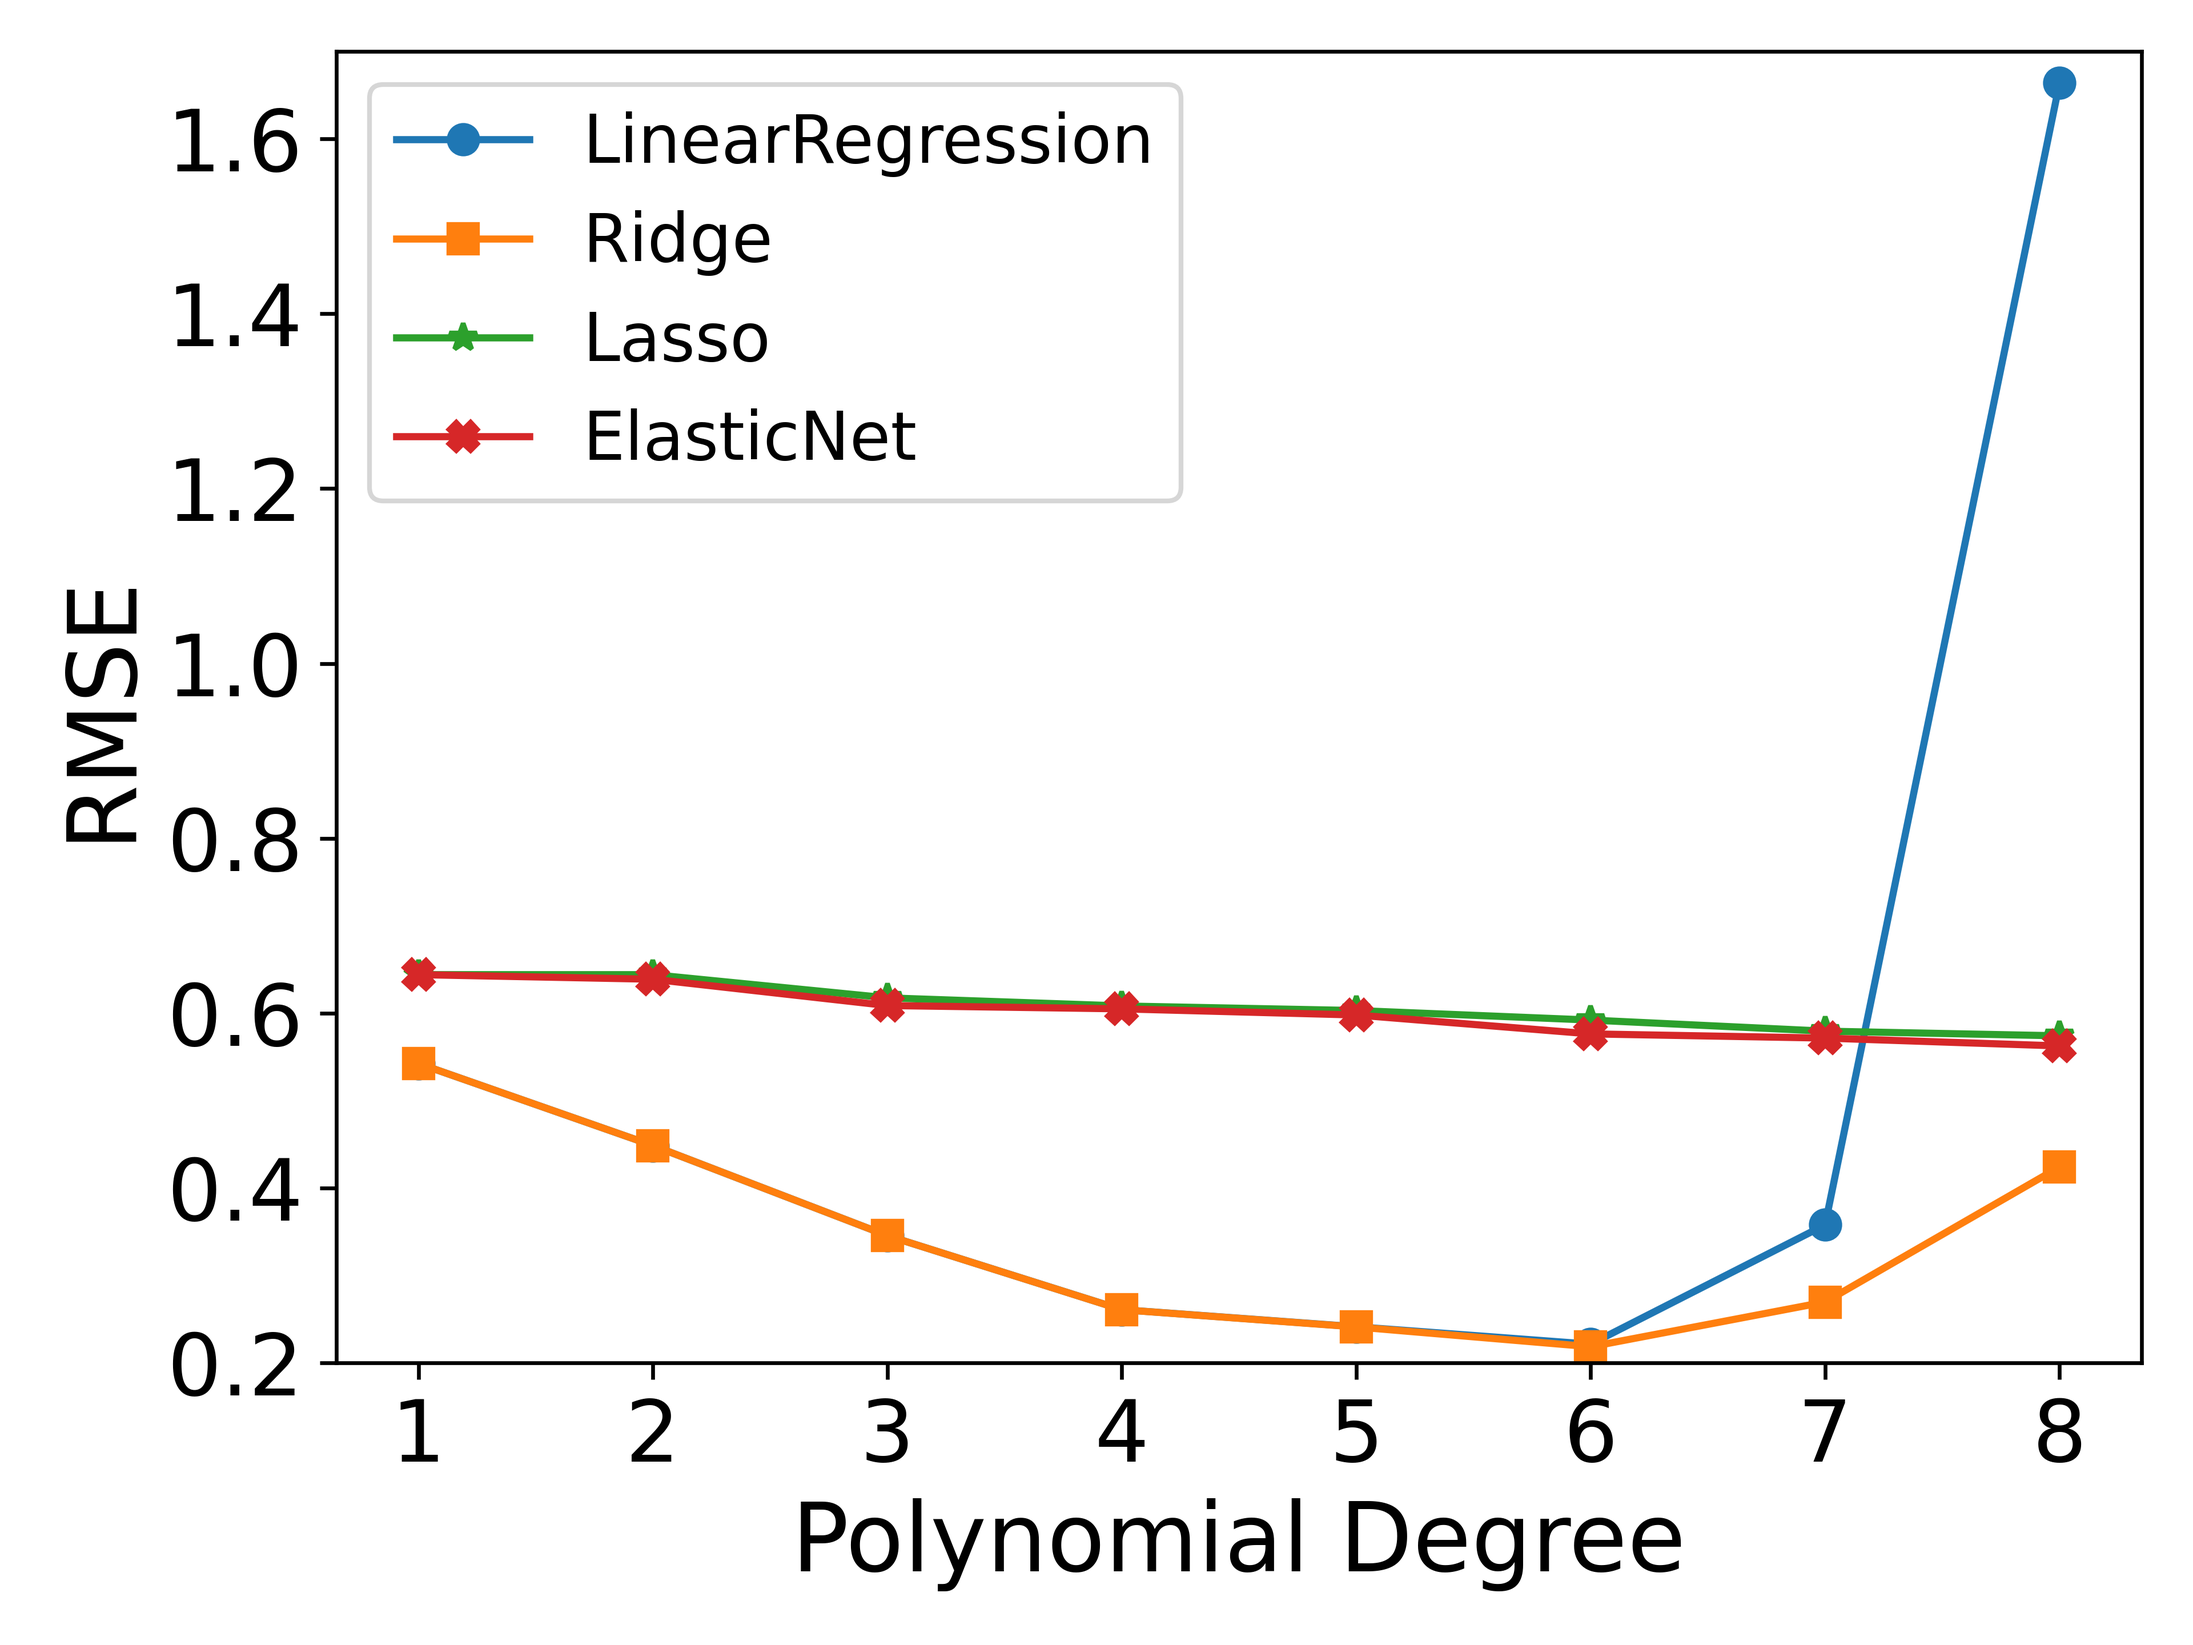
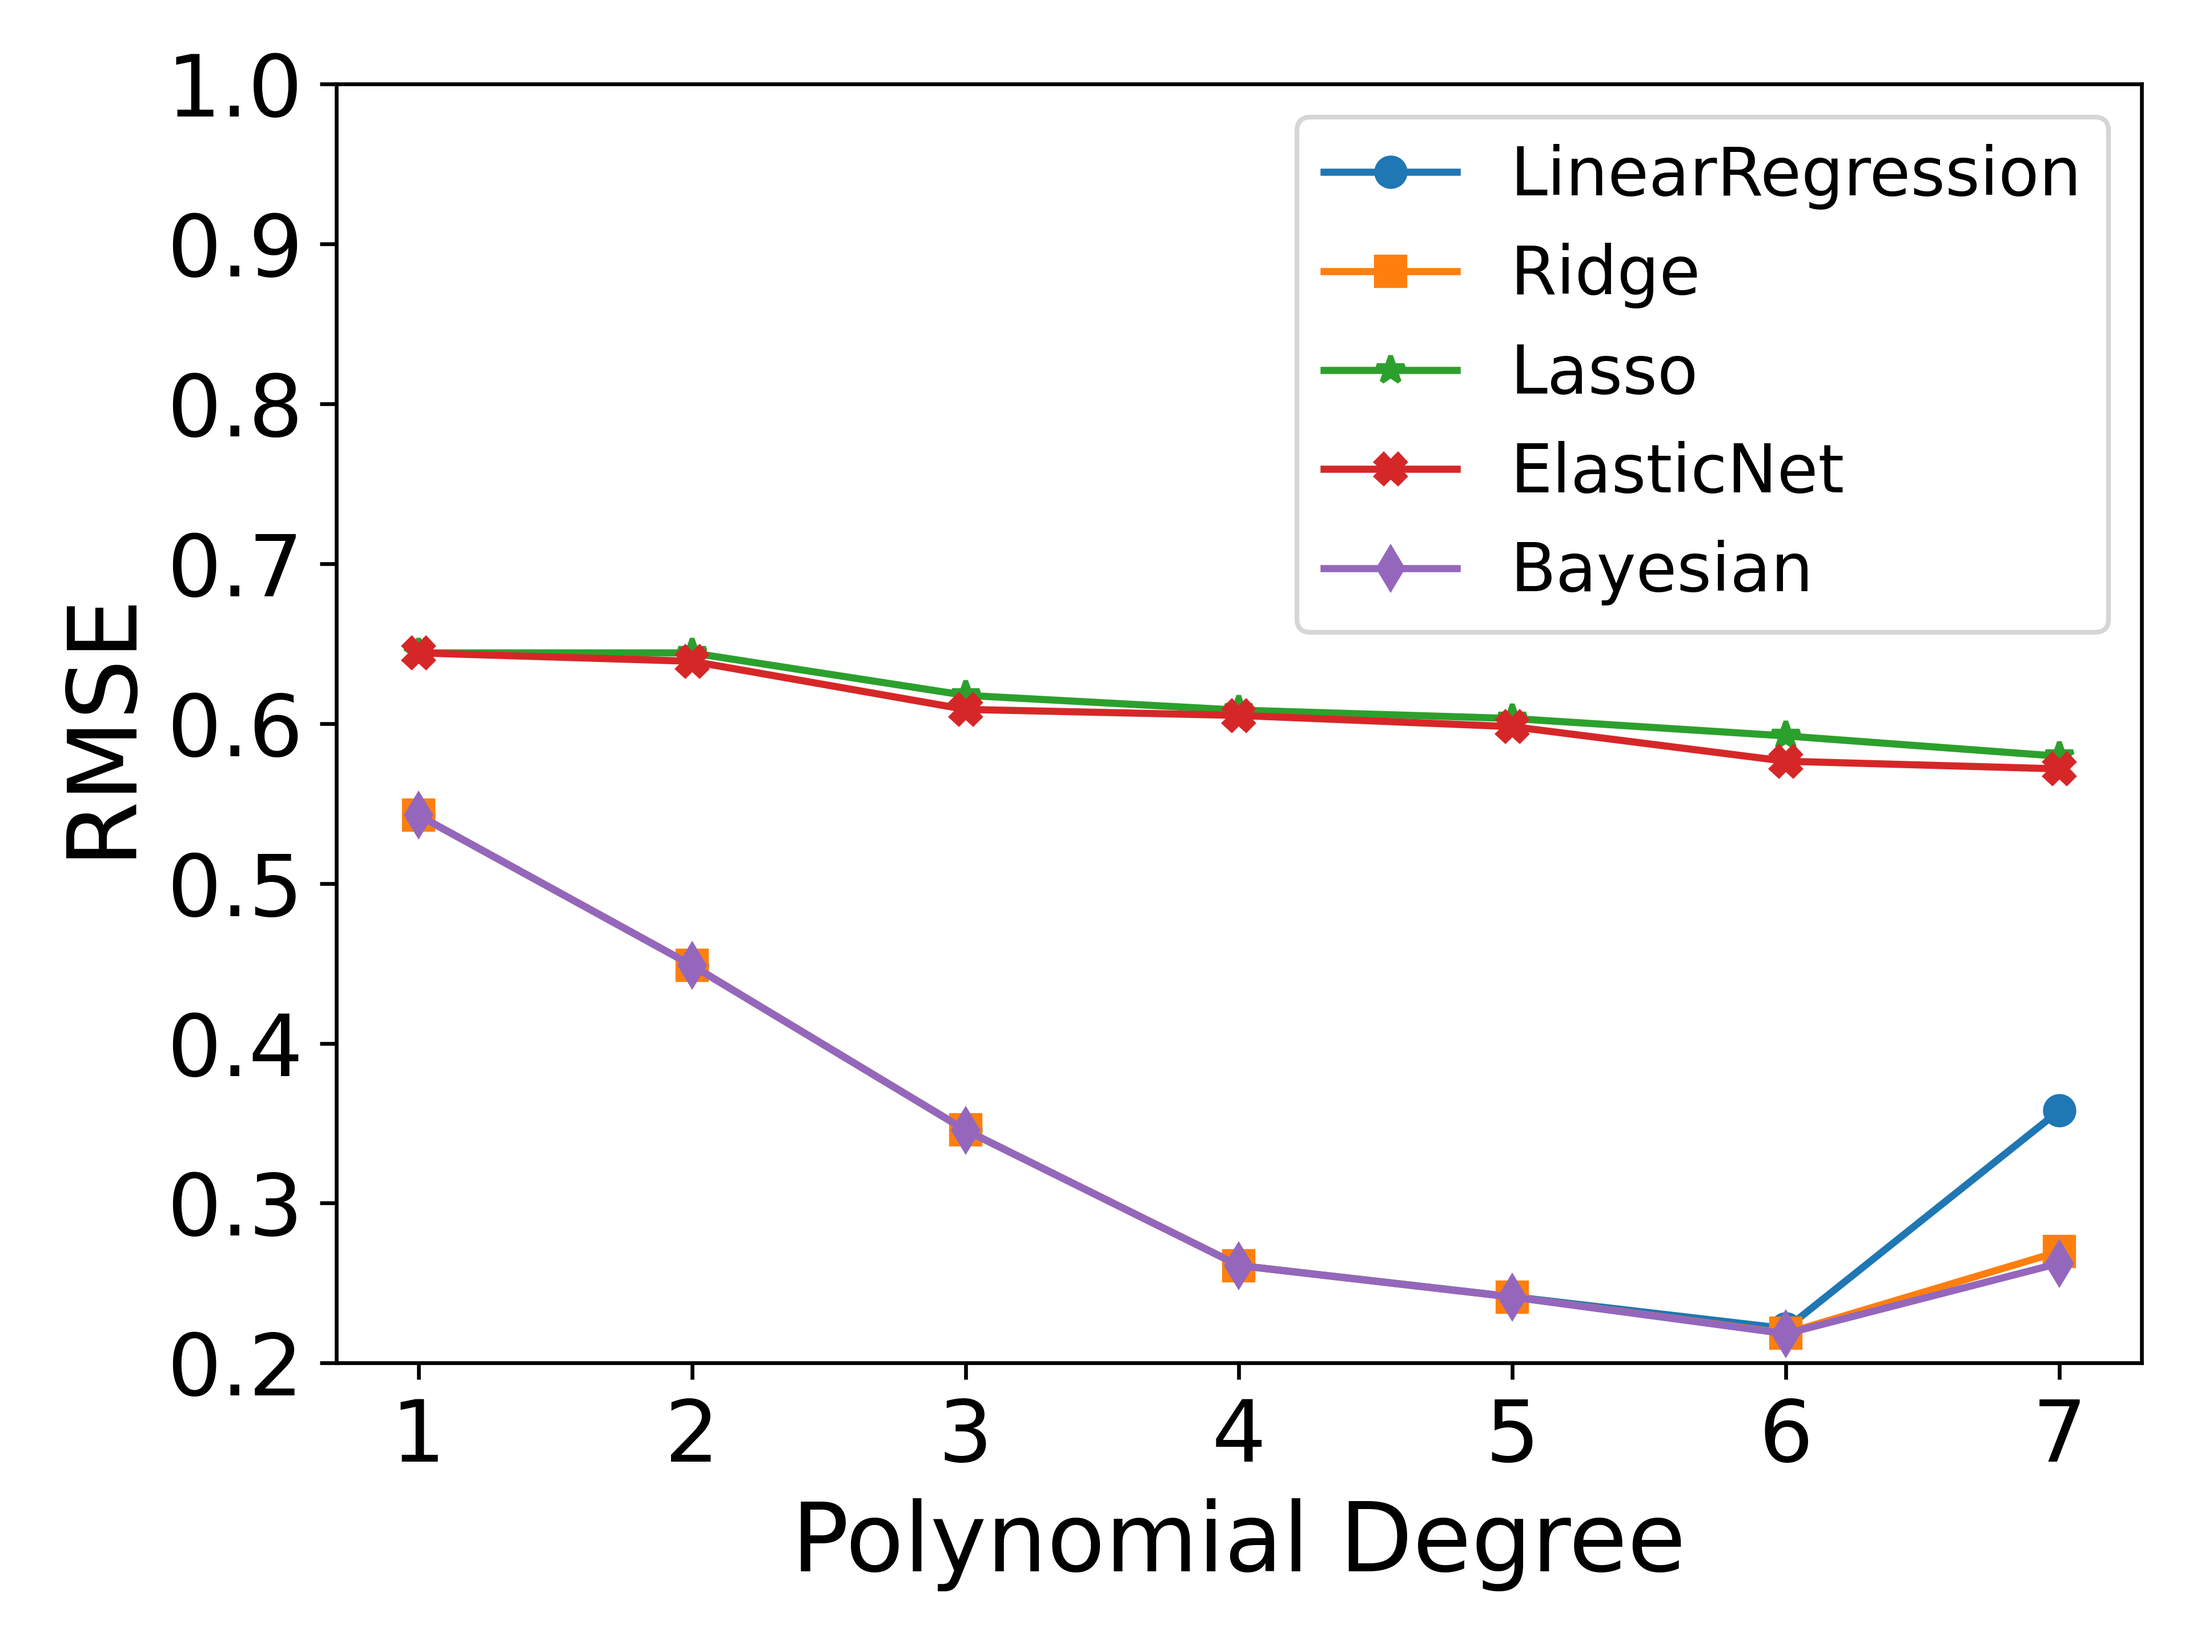
add bayesian

diff --git a/test.py b/test.py
@@ -1,0 +1,58 @@
+import random as rand
+
+def gen_random_float(n):
+    res = []
+    for _ in range(n):
+        res.append(rand.random())
+    arr = [(x / sum(res)) ** 2 for x in res]
+    return sum(arr)
+
+def resampling_and_get_distr(k):
+    """
+    call gen_random_float for k times and get distribution
+    """
+    res = []
+    for _ in range(k):
+        res.append(gen_random_float(10))
+    return res 
+
+def construct_optimization_problem():
+    status = True
+    gr_form = gurobi.formuation()
+    if not construct_variables(gr_form):
+        status = False
+    if not construct_obj_functions():
+        status = False
+    if not construct_contraints():
+        status = False
+    gr_form.optimize()
+    return status
+
+def construct_variables(gr_form):
+    for i _ in range(10):
+        gr_form.add_variables(f"x_{i}")
+    gr_form.add_variables(f"zz")
+    return True
+        
+def construct_obj_functions(gr_form):
+    gr_form.addobjective(expression="z", sense = 'Minimize')
+
+def construct_contraints(gr_form):
+    lhs1: gurobi.expression = 0
+    for i in range(N):
+        lhs1 += gurobi.getVar(f"x_{i}")
+        lhs2 += gurobi.getVar(f"x_{i}") ** 2
+
+    gr_form.add_constraints(lhr=lhs1,rhs= 1, sense="equal")
+    gr_form.add_constraints(lhs=lhs2,rhs=z )
+
+
+
+
+if __name__ == '__main__':
+    from matplotlib import pyplot
+    test_arr = resampling_and_get_distr(1000)
+    print(test_arr)
+    print(min(test_arr))
+    pyplot.hist(test_arr)
+

diff --git a/regression.py b/regression.py
@@ -3,7 +3,7 @@
 
 from sklearn.metrics import mean_squared_error, r2_score
 from sklearn.model_selection import cross_val_score
-from sklearn.linear_model import Ridge, Lasso, ElasticNet, LinearRegression
+from sklearn.linear_model import Ridge, Lasso, ElasticNet, LinearRegression, BayesianRidge
 from sklearn.pipeline import make_pipeline
 from sklearn.preprocessing import PolynomialFeatures
 from sklearn.preprocessing import MinMaxScaler
@@ -82,13 +82,13 @@ def cross_validation():
         LinearRegression(), Ridge(
             max_iter=10000), Lasso(
             max_iter=100000), ElasticNet(
-                max_iter=10000)]
+                max_iter=10000), BayesianRidge()]
 
-    names = ['LinearRegression', 'Ridge', 'Lasso', 'ElasticNet']
+    names = ['LinearRegression', 'Ridge', 'Lasso', 'ElasticNet', 'Bayesian']
 
-    markers = ['o', 's', '*', 'X']
+    markers = ['o', 's', '*', 'X', 'd']
 
-    degrees = [1, 2, 3, 4, 5, 6, 7, 8]
+    degrees = [1, 2, 3, 4, 5, 6, 7]
 
     scoring = 'neg_mean_squared_error'
 
@@ -127,7 +127,7 @@ def cross_validation():
 
     plt.yticks(size=18)
 
-    plt.ylim(0.2, 1.7)
+    plt.ylim(0.2, 1.0)
 
     plt.legend(fontsize=14)
 

diff --git a/test2.py b/test2.py
@@ -1,0 +1,22 @@
+def transact_price(arr):
+    tmp_min = float("inf")
+    global_max = -float("inf")
+    for p in arr:
+        tmp_min = min(tmp_min, p)
+        global_max = max(global_max, p - tmp_min)
+    return global_max
+
+def sum_to_target(arr, target):
+    h = set()
+    for n in arr:
+        if target-n in h:
+            return True
+        h.add(n)
+    return False
+
+if __name__ == "__main__":
+    test_arr1 = [150, 100]
+    target=300
+
+    print(sum_to_target(test_arr1, target))
+    print(sum_to_target([150, 150], target))
